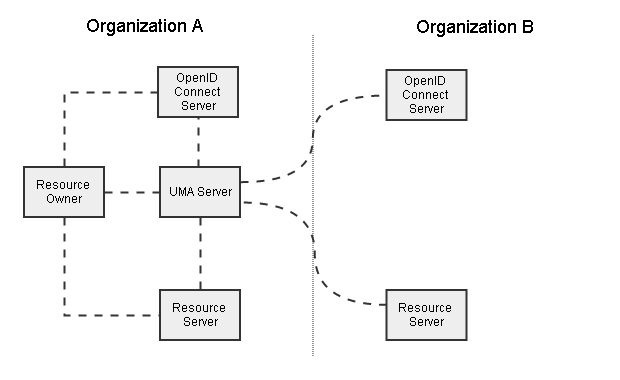
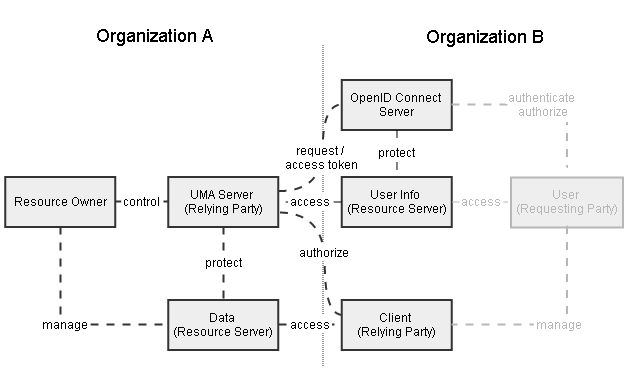
IBP/UMA Diagrams

diff --git a/index.html b/index.html
@@ -94,6 +94,7 @@
 						
 						<p>
 							<b>IBP Model - Phase I.</b></br>
+							protect a resource
 							<!--The UMA authorization server acts as an OpenID Connect Relying Party.-->
 							<img src="images/IBP-I.png" alt="IBP Phase I."/>
 							
@@ -102,6 +103,7 @@
 						<p>
 							<b>IBP Model - Phase II-III.</b></br>
 							<!--The UMA authorization server acts as an OpenID Connect Relying Party.-->
+							get authorization, access a resource
 							<img src="images/IBP-II-III.png" alt="IBP Phase II-III."/>
 							
 						</p>
